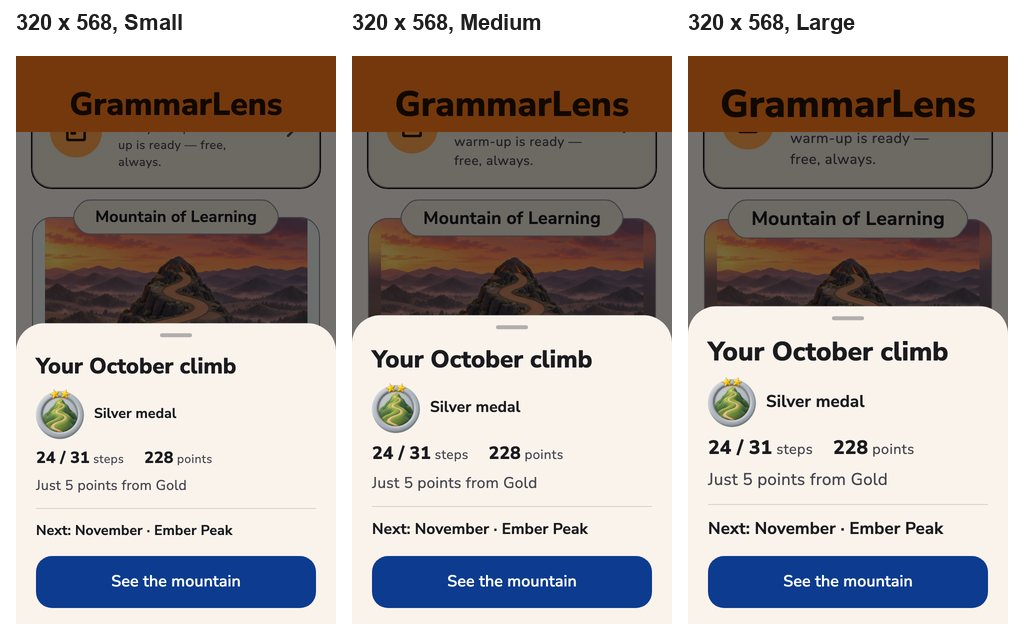
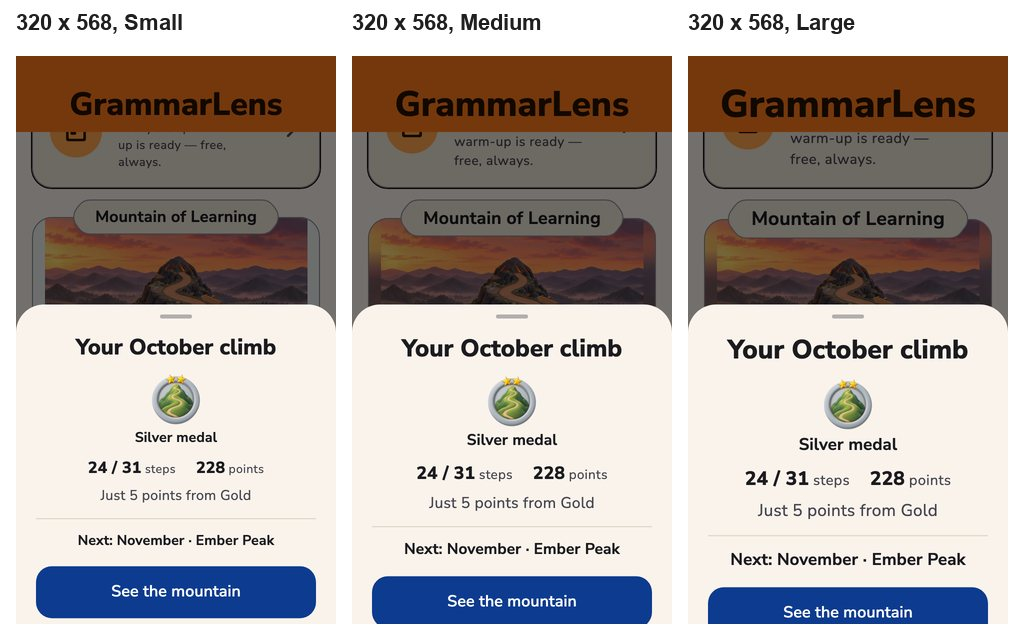
feat: month card with the medal large and centred (N30)
- MonthCardSheet's summary: the title, then the medal centred with its
  tier under it, the steps and points side by side, the near-miss line,
  "Next: ...", the button; no medal, no block.
- The disc by screen height, named constants: 88 pt (regular), 70 pt
  below 740 pt (375 x 667: the largest disc that fits at Large; 88 / 80
  / 70 at Small / Medium / Large), 48 pt below 640 pt.
- Measured (docs/design/batch5/card/): no scrolling at 375 x 667 (Large
  373.9 of 375.2 pt), 375 x 812 or 430 x 932. 320 x 568 scrolls at every
  text size: no disc down to 40 pt fits there (the card without a medal
  is 279-300 of 319.5 pt); 48 pt, the stars' floor, keeps the overflow
  smallest. Known flaw; there a swipe down scrolls the card instead of
  closing the sheet (the button and a tap outside close it). The
  mountain above the sheet drops, e.g. 85 -> 62 % at 375 x 812 Small.
- The near-miss line and its single source (M8, M15) are unchanged.
- Tests: the disc rule and the layout; month_card_support's default
  screen becomes 430 x 932, because in the test font the fullest card
  scrolls at 375 x 812 and a drag then scrolls rather than closes.

diff --git a/lib/widgets/month_card_sheet.dart b/lib/widgets/month_card_sheet.dart
@@ -1,3 +1,4 @@
+import 'package:flutter/foundation.dart' show kDebugMode;
 import 'package:flutter/gestures.dart';
 import 'package:flutter/material.dart';
 
@@ -47,14 +48,39 @@ class MonthCardSheet extends StatelessWidget {
   static const nearMissKey = ValueKey('month_card_near_miss');
   static const medalKey = ValueKey('month_card_medal');
 
-  /// The medal's disc (Batch 5, N16): 48 pt, the stars' readability floor
-  /// (N20).
-  static const medalDisc = 48.0;
+  /// N30: the medal large in the card's centre. 88 pt on ordinary screens
+  /// ([medalDiscRegular]); on shorter ones the largest disc with which the
+  /// fullest summary card does not scroll at any of the three text sizes
+  /// ([medalDiscCompact] at 375 × 667, [medalDiscSmall] at 320 × 568),
+  /// chosen by tool/design_measure/batch5/month_card_disc_test.dart.
+  ///
+  /// Measured (docs/design/batch5/card/month_card_disc.txt): at 375 × 667
+  /// the card fits up to 88 / 80 / 70 pt at Small / Medium / Large, so
+  /// 70. At 320 × 568 no disc down to 40 pt fits (the card without a medal
+  /// is already 279 / 289 / 300 pt of 319.5); 48 pt, the stars'
+  /// readability floor (N20), keeps the overflow smallest among readable
+  /// discs: a known flaw, the card scrolls there.
+  static const medalDiscRegular = 88.0;
+  static const medalDiscCompact = 70.0;
+  static const medalDiscSmall = 48.0;
 
-  /// The gaps above and below the medal row: 8 pt, not the card's 10. The
-  /// 48 pt medal and its stars add 10.7 pt; without these 4 the summary card
-  /// scrolled by 2.2 pt at 320 × 568 with Large text (N16).
-  static const medalGap = 8.0;
+  /// The screen heights where the disc steps down.
+  static const compactBelow = 740.0;
+  static const smallBelow = 640.0;
+
+  static double? _discForTesting;
+
+  /// Debug builds only: stands in for the chosen disc in measuring tools.
+  /// Ignored in profile and release builds.
+  static set debugMedalDiscOverride(double? value) => _discForTesting = value;
+
+  /// The medal's disc on a screen [height] points tall.
+  static double medalDiscFor(double height) {
+    if (kDebugMode && _discForTesting != null) return _discForTesting!;
+    if (height < smallBelow) return medalDiscSmall;
+    if (height < compactBelow) return medalDiscCompact;
+    return medalDiscRegular;
+  }
 
   /// The near-miss line (M15): the gap as a number, no promise of days.
   static String nearMissText(int gap, String tier) =>
@@ -108,6 +134,7 @@ class MonthCardSheet extends StatelessWidget {
     final month = ClimbCard.monthNames[data.previousMonth - 1];
     final next = ClimbCard.monthNames[data.month - 1];
     final title = Text('Your $month climb',
+        textAlign: TextAlign.center,
         style:
             theme.textTheme.titleLarge?.copyWith(fontWeight: FontWeight.w800));
     Widget stat(String value, String label) => Text.rich(TextSpan(children: [
@@ -122,33 +149,43 @@ class MonthCardSheet extends StatelessWidget {
     final tier = data.tier;
     return [
       Semantics(header: true, child: title),
+      // N30: the medal in the centre, large; no medal, no block.
       if (tier != null) ...[
-        const SizedBox(height: medalGap),
-        Row(key: medalKey, children: [
+        const SizedBox(height: 12),
+        Column(key: medalKey, children: [
           MedalBadge.monthly(
-              themeId: data.previousTheme.id, tier: tier, disc: medalDisc),
-          const SizedBox(width: 10),
-          Expanded(
-              child: Text('${tier.label} medal',
-                  style: theme.textTheme.titleSmall
-                      ?.copyWith(fontWeight: FontWeight.w700))),
+              themeId: data.previousTheme.id,
+              tier: tier,
+              disc: medalDiscFor(MediaQuery.sizeOf(context).height)),
+          const SizedBox(height: 4),
+          Text('${tier.label} medal',
+              textAlign: TextAlign.center,
+              style: theme.textTheme.titleSmall
+                  ?.copyWith(fontWeight: FontWeight.w700)),
         ]),
       ],
-      SizedBox(height: tier != null ? medalGap : 10),
-      Wrap(spacing: 20, runSpacing: 4, children: [
-        stat('${data.steps} / ${data.days}', 'steps'),
-        stat('${data.score}', 'points'),
-      ]),
+      const SizedBox(height: 10),
+      // Steps and points side by side, under the medal.
+      Wrap(
+          alignment: WrapAlignment.center,
+          spacing: 20,
+          runSpacing: 4,
+          children: [
+            stat('${data.steps} / ${data.days}', 'steps'),
+            stat('${data.score}', 'points'),
+          ]),
       if (data.nearMiss case (final next, final gap)) ...[
         const SizedBox(height: 6),
         Text(nearMissText(gap, next.label),
             key: nearMissKey,
+            textAlign: TextAlign.center,
             style: theme.textTheme.bodyMedium?.copyWith(color: muted)),
       ],
       const SizedBox(height: 12),
       const Divider(height: 1),
       const SizedBox(height: 12),
       Text('Next: $next · ${data.theme.name}',
+          textAlign: TextAlign.center,
           style: theme.textTheme.titleSmall
               ?.copyWith(fontWeight: FontWeight.w700)),
     ];

diff --git a/tool/design_measure/batch5/month_card_disc_test.dart b/tool/design_measure/batch5/month_card_disc_test.dart
@@ -1,0 +1,107 @@
+// Batch 5 step 5 (N30): the largest medal disc with which the fullest
+// summary month card does not scroll, per screen and text size. The real
+// MonthCardSheet (Silver, the near-miss line, the next month) laid out at
+// the screen's width with the app's theme (text size only through
+// buildAppTheme(textSize:)); its natural height is the sheet's height
+// (Batch 6: the sheet sizes to it), and a modal sheet holds at most 9/16
+// of the screen. Discs 88 down to 40 in 2 pt steps
+// (MonthCardSheet.debugMedalDiscOverride). Writes month_card_disc.txt.
+//
+//   DESIGN_MEASURE_OUT=docs/design/batch5/card \
+//     flutter test tool/design_measure/batch5/month_card_disc_test.dart
+import 'dart:io';
+
+import 'package:flutter/material.dart';
+import 'package:flutter_test/flutter_test.dart';
+import 'package:grammar_lens/models/app_text_size.dart';
+import 'package:grammar_lens/models/avatar.dart';
+import 'package:grammar_lens/models/climb_theme.dart';
+import 'package:grammar_lens/models/medal_tier.dart';
+import 'package:grammar_lens/services/month_transition.dart';
+import 'package:grammar_lens/theme.dart';
+import 'package:grammar_lens/widgets/month_card_sheet.dart';
+
+import '../layouts.dart' show loadFont, outDir;
+
+const _screens = {
+  '320x568': Size(320, 568),
+  '375x667': Size(375, 667),
+  '375x812': Size(375, 812),
+  '430x932': Size(430, 932),
+};
+
+const _card = MonthCardData(
+    year: 2026,
+    month: 11,
+    theme: ClimbThemes.emberPeak,
+    variant: MonthCardVariant.summary,
+    previousTheme: ClimbThemes.greenSlope,
+    previousYear: 2026,
+    previousMonth: 10,
+    tier: MedalTier.silver,
+    steps: 24,
+    days: 31,
+    score: 228,
+    nearMiss: (MedalTier.gold, 5));
+
+void main() {
+  final rows = <String>[];
+  setUpAll(loadFont);
+  tearDown(() => MonthCardSheet.debugMedalDiscOverride = null);
+  tearDownAll(() => File('${outDir()}/month_card_disc.txt').writeAsStringSync([
+        'Batch 5 step 5 (N30): the fullest summary card\'s height (= the '
+            'sheet\'s) by medal disc, against the sheet\'s limit (9/16 of the '
+            'screen). Points. Largest fitting: the largest disc whose card '
+            'is not taller than the limit.',
+        '',
+        'screen   text    limit   at 88   at 64   at 48   largest fitting',
+        ...rows,
+      ].join('\n')));
+
+  for (final MapEntry(key: name, value: screen) in _screens.entries) {
+    for (final size in AppTextSize.values) {
+      testWidgets('$name $size', (tester) async {
+        tester.view.physicalSize = screen * 3;
+        tester.view.devicePixelRatio = 3;
+        addTearDown(tester.view.reset);
+        final key = GlobalKey();
+        Future<double> heightAt(double disc) async {
+          MonthCardSheet.debugMedalDiscOverride = disc;
+          await tester.pumpWidget(MaterialApp(
+            theme: buildAppTheme(Brightness.light, textSize: size),
+            home: Material(
+              child: Align(
+                alignment: Alignment.topCenter,
+                child: SizedBox(
+                  width: screen.width,
+                  child: KeyedSubtree(
+                    key: key,
+                    child: MonthCardSheet(
+                        data: _card,
+                        avatar: Avatar.values.first,
+                        onClose: () {}),
+                  ),
+                ),
+              ),
+            ),
+          ));
+          return tester.getSize(find.byKey(key)).height;
+        }
+
+        final limit = screen.height * 9 / 16;
+        final h88 = await heightAt(88), h64 = await heightAt(64);
+        final h48 = await heightAt(48);
+        double? best;
+        for (var d = 88.0; d >= 40; d -= 2) {
+          if (await heightAt(d) <= limit) {
+            best = d;
+            break;
+          }
+        }
+        String f(double v) => v.toStringAsFixed(1).padLeft(6);
+        rows.add('${name.padRight(8)} ${size.name.padRight(6)}  ${f(limit)}  '
+            '${f(h88)}  ${f(h64)}  ${f(h48)}   ${best == null ? 'none' : best.toStringAsFixed(0)}');
+      });
+    }
+  }
+}

diff --git a/test/month_card_test.dart b/test/month_card_test.dart
@@ -51,9 +51,31 @@ void main() {
           matching: find.byType(MedalBadge)));
       // October 2026 is Green Slope; the card is November's (Ember Peak).
       expect(badge.asset, MedalArt.monthly('green_slope', MedalTier.silver));
-      expect(badge.disc, MonthCardSheet.medalDisc);
-      expect(MonthCardSheet.medalDisc, 48);
+      // N30: by the screen's height (the test screen is 932 pt tall).
+      expect(badge.disc, MonthCardSheet.medalDiscFor(932));
+      expect(MonthCardSheet.medalDiscRegular, 88);
       expect(badge.earned, isTrue);
+    });
+
+    test('N30: the disc by screen height: 88 ordinary, 70 at 667, 48 at 568',
+        () {
+      expect(MonthCardSheet.medalDiscFor(932), 88);
+      expect(MonthCardSheet.medalDiscFor(812), 88);
+      expect(MonthCardSheet.medalDiscFor(667), 70);
+      expect(MonthCardSheet.medalDiscFor(568), 48);
+    });
+
+    testWidgets(
+        'N30: the medal centred, large, its tier under it; steps and points '
+        'under the medal', (tester) async {
+      await pumpHome(tester, CardStorage());
+      final sheet = tester.getRect(_sheet);
+      final medal = tester.getRect(find.byType(MedalBadge));
+      expect(medal.center.dx, closeTo(sheet.center.dx, 1));
+      final steps = tester.getRect(find.textContaining('24 / 31'));
+      expect(steps.top, greaterThan(medal.bottom));
+      expect(tester.getRect(find.text('Silver medal')).top,
+          greaterThan(medal.bottom));
     });
 
     testWidgets('summary without a medal: no medal row; the gap to Bronze',

diff --git a/test/support/month_card_support.dart b/test/support/month_card_support.dart
@@ -100,7 +100,12 @@ final mountainFinder = find.byType(MonthlyMountain);
 Future<void> pumpHome(
   WidgetTester tester,
   StorageService storage, {
-  Size screen = const Size(375, 812),
+  // Batch 5 (N30): the centred medal makes the fullest summary card taller;
+  // in the test font (wider and taller than the app's) it scrolls at
+  // 375 × 812, and a drag on a scrolling sheet scrolls instead of closing
+  // it. 430 × 932 keeps the default card unscrolled; screen-specific tests
+  // pass their own size.
+  Size screen = const Size(430, 932),
   AppTextSize textSize = AppTextSize.medium,
   RecordingAnalyticsSink? sink,
   Key? key,

diff --git a/tool/scene_art/batch5_sheet.py b/tool/scene_art/batch5_sheet.py
@@ -144,16 +144,20 @@ def card() -> None:
     shutil.copy(new_file, out)
     old = _rows(T.REPO / "docs/design/batch6/card/month_card_real_numbers.txt")
     old.update(_rows(T.REPO / "docs/design/batch6/card/month_card_real_numbers_375x667.txt"))
+    # N16's numbers (48 pt medal in a row), kept when N30 replaced them.
+    n16 = _rows(out / "month_card_real_numbers_N16.txt")
     new = _rows(new_file)
-    lines = ["Batch 5 step 3 (N16): the real month card, Batch 6 (40 pt medal) against now (48 pt disc,",
-             "the gaps around the medal row 8 pt). Light (dark is identical). Sheet height in points.",
-             "", "card     screen    text    sheet before  sheet now  change  scrolls before/now"]
+    lines = ["Batch 5 (N16, N30): the real month card on the real Home after the M21 scroll: Batch 6",
+             "(40 pt medal in a row) -> N16 (48 pt in a row) -> N30 (centred, 88 / 70 / 48 pt by screen",
+             "height). Light (dark is identical). Sheet height in points; window = the mountain above",
+             "the sheet (of 350 pt).", "",
+             "card     screen    text    sheet B6 -> N16 -> N30       scrolls B6/N16/N30   window B6 -> N30"]
     for key, f in new.items():
         if key[2] != "light" or key not in old:
             continue
-        o = old[key]
-        lines.append(f"{key[0]:8} {key[1]:9} {key[3]:7} {float(o[5]):11.1f}  {float(f[5]):9.1f}  "
-                     f"{float(f[5]) - float(o[5]):+6.1f}  {o[10]}/{f[10]}")
+        o, m = old[key], n16.get(key, old[key])
+        lines.append(f"{key[0]:8} {key[1]:9} {key[3]:7} {float(o[5]):6.1f} -> {float(m[5]):6.1f} -> {float(f[5]):6.1f}"
+                     f"     {o[10]}/{m[10]}/{f[10]:3}            {o[13]} -> {f[13]}")
     (out / "card_compare.txt").write_text("\n".join(lines) + "\n")
     print("\n".join(lines))
     screens = (320, 375, 430)

diff --git a/tool/design_measure/README.md b/tool/design_measure/README.md
@@ -382,3 +382,13 @@ DESIGN_MEASURE_OUT=build/design_measure/batch5_steps STEPS_ENDING=flag STEPS_WID
 run with `STEPS_LABEL=before` in a worktree at `fd215e4` (the commit
 before N31), with a `steps_render_hooks.dart` whose `setEnding` does
 nothing; then `tool/scene_art/batch5_sheet.py steps`.
+
+```bash
+DESIGN_MEASURE_OUT=docs/design/batch5/card flutter test tool/design_measure/batch5/month_card_disc_test.dart
+```
+
+Step 5 (N30): the fullest summary card's height by medal disc at four
+screens and three text sizes, and the largest disc that does not scroll
+(`month_card_disc.txt`). Then the real card on the real Home with Batch
+6's `month_card_real_render_test.dart` (four screens) and
+`batch5_sheet.py card` (Batch 6 → N16 → N30 in `card_compare.txt`).
